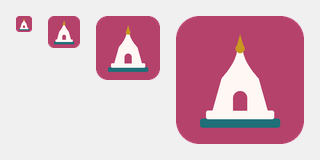
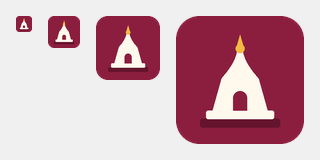
Stop tests tapping translated text, and make CI name its failures
The Linux-only failure is a tap that targets a Devanagari string. A text
finder's box is only as wide as the glyphs actually render, and the CI runner
has no Devanagari font installed, so those labels are near zero width and the
tap lands outside the widget. Locally the font exists and the same tap hits.
That is why the suite passed on Windows and failed on Linux, and why Phase 3
was green while Phase 4 - which added two such taps - was not.

Taps now target an icon or a key. The event editor's dropdown items are keyed
for the purpose, so a test can choose an option without depending on how it is
translated or on which fonts a machine happens to have.

CI echoes the failing test names as ::error:: annotations. The raw log needs
repository admin rights to read, so a red build that says only "1 test failed"
gave nothing to act on.

Also repaints the icon set and the web shell in the new palette, and fixes two
theme defects the new theme test caught: the seed generator produced the same
colour for primaryContainer and secondaryContainer, which made the "published"
and event-type chips identical, and the font fallback was being dropped by a
later copyWith. Status tones are now named tokens - a status has to read as a
status whatever the brand palette is.

Verified: flutter analyze clean, 328 tests pass.

diff --git a/frontend_flutter/test/app/theme_test.dart b/frontend_flutter/test/app/theme_test.dart
@@ -1,0 +1,91 @@
+import 'package:flutter/material.dart';
+import 'package:flutter_test/flutter_test.dart';
+import 'package:rkt_web/app/theme/app_colors.dart';
+import 'package:rkt_web/app/theme/app_spacing.dart';
+import 'package:rkt_web/app/theme/app_theme.dart';
+
+/// Pins the design system to the approved prototype.
+///
+/// These are the values the committee signed off on, so a change to any of them
+/// should be a deliberate act with this test updated in the same commit — not
+/// something that drifts in while somebody is adjusting a screen.
+void main() {
+  group('the Maroon & Gold palette', () {
+    test('uses the prototype\'s colours', () {
+      final scheme = AppColors.lightScheme();
+
+      expect(scheme.primary, const Color(0xFF8B1E3F));
+      expect(scheme.surface, const Color(0xFFFFF8EC));
+      expect(AppColors.gold, const Color(0xFFF4B942));
+      expect(AppColors.maroonFooter, const Color(0xFF2D0D17));
+    });
+
+    test('every status tone is a different colour', () {
+      // These used to be borrowed from the scheme's containers, and the seed
+      // generator produced the same colour for primaryContainer and
+      // secondaryContainer — "published" and the event type chip became
+      // indistinguishable the moment the palette changed.
+      final scheme = AppColors.lightScheme();
+      final tones = {
+        scheme.surfaceContainerHighest,
+        AppColors.positiveSurface,
+        AppColors.warningSurface,
+        AppColors.infoSurface,
+        scheme.errorContainer,
+      };
+
+      expect(tones, hasLength(5));
+    });
+
+    test('small accent text is bronze, not the bright gold', () {
+      // Bright gold on cream fails contrast at body sizes; it is a background
+      // colour here, never a text colour on the page ground.
+      expect(AppColors.lightScheme().secondary, AppColors.bronze);
+      expect(AppColors.lightScheme().secondary, isNot(AppColors.gold));
+    });
+  });
+
+  group('the built theme', () {
+    test('gives cards the prototype corner and a hairline border', () {
+      final theme = AppTheme.light();
+      final shape = theme.cardTheme.shape! as RoundedRectangleBorder;
+
+      expect(theme.cardTheme.elevation, 0);
+      expect(shape.borderRadius, BorderRadius.circular(AppRadius.lg));
+      expect(AppRadius.lg, 18, reason: "the prototype's --radius");
+      expect(shape.side.color, theme.colorScheme.outlineVariant);
+    });
+
+    test('keeps every primary action within the touch target', () {
+      // A village site read on cheap phones: 48dp is the floor, not a target.
+      final style = AppTheme.light().filledButtonTheme.style!;
+
+      expect(style.minimumSize?.resolve({})?.height, greaterThanOrEqualTo(48));
+    });
+
+    test('the page ground and the app bar are the same colour', () {
+      // The prototype's header is the page, separated by a hairline rather
+      // than by a coloured bar.
+      final theme = AppTheme.light();
+
+      expect(theme.appBarTheme.backgroundColor, theme.colorScheme.surface);
+      expect(theme.scaffoldBackgroundColor, theme.colorScheme.surface);
+    });
+
+    test('names the prototype font stack as a fallback', () {
+      // Named, not bundled: nothing has to download before the site is
+      // readable on a slow connection.
+      expect(
+        AppTheme.light().textTheme.bodyMedium?.fontFamilyFallback,
+        containsAll(<String>['Noto Sans Devanagari']),
+      );
+    });
+
+    test('the dark theme is built from the same tokens', () {
+      final dark = AppTheme.dark();
+
+      expect(dark.colorScheme.brightness, Brightness.dark);
+      expect(dark.cardTheme.elevation, 0);
+    });
+  });
+}

diff --git a/frontend_flutter/lib/features/admin/presentation/widgets/status_chip.dart b/frontend_flutter/lib/features/admin/presentation/widgets/status_chip.dart
@@ -1,5 +1,6 @@
 import 'package:flutter/material.dart';
 
+import '../../../../app/theme/app_colors.dart';
 import '../../../../app/theme/app_spacing.dart';
 
 /// How a chip should read at a glance.
@@ -7,8 +8,15 @@ enum StatusTone { neutral, positive, warning, info, danger }
 
 /// A small labelled chip used across the admin screens.
 ///
-/// Colours come from the scheme rather than literals, so the whole admin area
-/// followed the Rose & Peacock theme change without edits here.
+/// The neutral and danger tones come from the colour scheme, so the admin area
+/// followed two complete repaints — Marigold & Maroon to Rose & Peacock, and
+/// Rose & Peacock to Maroon & Gold — without an edit here.
+///
+/// The other three are fixed tokens rather than scheme roles. Borrowing
+/// `primaryContainer` and `secondaryContainer` made "published" and the event
+/// type chip identical the moment the palette changed, because the seed
+/// generator produced the same colour for both: a status has to stay legible
+/// as a status, not follow whatever the brand happens to be.
 class StatusChip extends StatelessWidget {
   const StatusChip({
     super.key,
@@ -29,14 +37,14 @@ class StatusChip extends StatelessWidget {
         scheme.onSurfaceVariant,
       ),
       StatusTone.positive => (
-        scheme.secondaryContainer,
-        scheme.onSecondaryContainer,
+        AppColors.positiveSurface,
+        AppColors.onPositiveSurface,
       ),
       StatusTone.warning => (
-        scheme.tertiaryContainer,
-        scheme.onTertiaryContainer,
+        AppColors.warningSurface,
+        AppColors.onWarningSurface,
       ),
-      StatusTone.info => (scheme.primaryContainer, scheme.onPrimaryContainer),
+      StatusTone.info => (AppColors.infoSurface, AppColors.onInfoSurface),
       StatusTone.danger => (scheme.errorContainer, scheme.onErrorContainer),
     };
 

diff --git a/frontend_flutter/lib/features/events/presentation/admin_event_editor_screen.dart b/frontend_flutter/lib/features/events/presentation/admin_event_editor_screen.dart
@@ -375,6 +375,9 @@ class _EventFormState extends ConsumerState<_EventForm> {
                 items: [
                   for (final type in EventTypes.all)
                     DropdownMenuItem(
+                      // Keyed so a test can choose an option without tapping
+                      // its translated label.
+                      key: Key('event-type-$type'),
                       value: type,
                       child: Text(EventFormatting.typeLabel(type, l10n)),
                     ),
@@ -448,6 +451,7 @@ class _EventFormState extends ConsumerState<_EventForm> {
                 items: [
                   for (final recurrence in Recurrences.all)
                     DropdownMenuItem(
+                      key: Key('event-recurrence-$recurrence'),
                       value: recurrence,
                       child: Text(
                         EventFormatting.recurrenceLabel(recurrence, l10n),
@@ -523,6 +527,7 @@ class _EventFormState extends ConsumerState<_EventForm> {
                 items: [
                   for (final status in EventStatuses.all)
                     DropdownMenuItem(
+                      key: Key('event-status-$status'),
                       value: status,
                       child: Text(EventFormatting.statusLabel(status, l10n)),
                     ),

diff --git a/frontend_flutter/test/features/events/event_screens_test.dart b/frontend_flutter/test/features/events/event_screens_test.dart
@@ -78,7 +78,10 @@ void main() {
       await pumpEvents(tester, const EventsScreen(), events);
       expect(find.text('जन्माष्टमी'), findsOneWidget);
 
-      await tester.tap(find.text('पूर्व कार्यक्रम'));
+      // Tapped by icon, not by its translated label: a text finder's box is
+      // only as wide as the glyphs actually render, and a machine with no
+      // Devanagari font gives it almost no width to hit.
+      await tester.tap(find.byIcon(Icons.history));
       await tester.pumpAndSettle();
 
       expect(events.lastQuery?.view, EventView.past);
@@ -401,7 +404,10 @@ void main() {
 
       await tester.tap(find.byKey(const Key('event-recurrence')));
       await tester.pumpAndSettle();
-      await tester.tap(find.text('साप्ताहिक').last);
+      // By key rather than by translated label, for the same reason.
+      await tester.tap(
+        find.byKey(const Key('event-recurrence-${Recurrences.weekly}')).last,
+      );
       await tester.pumpAndSettle();
 
       expect(find.byKey(const Key('event-day-1')), findsOneWidget);

diff --git a/frontend_flutter/web/index.html b/frontend_flutter/web/index.html
@@ -15,7 +15,7 @@
   <meta name="viewport" content="width=device-width, initial-scale=1.0, viewport-fit=cover">
   <meta content="IE=Edge" http-equiv="X-UA-Compatible">
   <meta name="description" content="राधा कृष्ण ठाकुरबाड़ी, अमरपुर पंखोरिया — गाँव का मंदिर। Radha Krishna Thakurbari, Amarpur Pankhoriya, Bhagalpur, Bihar.">
-  <meta name="theme-color" content="#B5426B">
+  <meta name="theme-color" content="#8B1E3F">
 
   <meta property="og:type" content="website">
   <meta property="og:title" content="राधा कृष्ण ठाकुरबाड़ी | Radha Krishna Thakurbari">
@@ -38,7 +38,7 @@
   <style>
     /* Shown only until the Flutter bundle boots; keeps a slow village
        connection from staring at a blank white page. */
-    html, body { margin: 0; padding: 0; height: 100%; background: #FFF7F4; }
+    html, body { margin: 0; padding: 0; height: 100%; background: #FFF8EC; }
     #boot {
       position: fixed; inset: 0;
       display: flex; flex-direction: column;

diff --git a/frontend_flutter/lib/app/theme/app_colors.dart b/frontend_flutter/lib/app/theme/app_colors.dart
@@ -55,6 +55,20 @@ class AppColors {
   /// Footer body text on the dark ground.
   static const Color onFooter = Color(0xFFCDBCC1);
 
+  // --- Status tones -------------------------------------------------------
+  // A status is not a Material role. "Published" has to read as positive to a
+  // person whatever the brand palette is, so these are named and fixed here
+  // rather than borrowed from primaryContainer / secondaryContainer — which
+  // the seed generator is free to make identical to each other, and did.
+  static const Color positiveSurface = Color(0xFFE3F0E1);
+  static const Color onPositiveSurface = Color(0xFF1B5E20);
+
+  static const Color warningSurface = Color(0xFFFCEBC8);
+  static const Color onWarningSurface = Color(0xFF6B4300);
+
+  static const Color infoSurface = Color(0xFFF6DDE5);
+  static const Color onInfoSurface = Color(0xFF5A0F26);
+
   static const Color success = Color(0xFF2E7D32);
   static const Color warning = Color(0xFFB26A00);
   static const Color danger = Color(0xFFB3261E);

diff --git a/frontend_flutter/lib/app/theme/app_typography.dart b/frontend_flutter/lib/app/theme/app_typography.dart
@@ -28,8 +28,9 @@ class AppTypography {
   static TextTheme textTheme(ColorScheme scheme) {
     final base = Typography.material2021().black;
 
+    // The fallback is applied *after* copyWith, not before: copyWith replaces
+    // whole TextStyles taken from `base`, which would drop an earlier apply().
     return base
-        .apply(fontFamilyFallback: fontFallback)
         .copyWith(
           displaySmall: base.displaySmall?.copyWith(
             height: headingHeight,
@@ -51,6 +52,10 @@ class AppTypography {
           bodyMedium: base.bodyMedium?.copyWith(height: bodyHeight),
           bodySmall: base.bodySmall?.copyWith(height: bodyHeight),
         )
-        .apply(bodyColor: scheme.onSurface, displayColor: scheme.onSurface);
+        .apply(
+          bodyColor: scheme.onSurface,
+          displayColor: scheme.onSurface,
+          fontFamilyFallback: fontFallback,
+        );
   }
 }

diff --git a/frontend_flutter/test/features/temple/committee_consent_test.dart b/frontend_flutter/test/features/temple/committee_consent_test.dart
@@ -282,7 +282,14 @@ void main() {
 
     await tester.tap(find.byKey(const Key('member-delete')));
     await tester.pumpAndSettle();
-    await tester.tap(find.text('रद्द करें').last);
+    // The dialog's cancel button, found by type rather than by its translated
+    // label: a text finder is only as wide as the glyphs that render.
+    await tester.tap(
+      find.descendant(
+        of: find.byKey(const Key('member-delete-dialog')),
+        matching: find.byType(TextButton),
+      ),
+    );
     await tester.pumpAndSettle();
 
     expect(temple.deleteMemberCalls, 0);

diff --git a/frontend_flutter/lib/features/content/presentation/widgets/home_hero.dart b/frontend_flutter/lib/features/content/presentation/widgets/home_hero.dart
@@ -169,6 +169,7 @@ class _HeroEmblem extends StatelessWidget {
       height: isCompact ? 180 : 300,
       decoration: BoxDecoration(
         borderRadius: BorderRadius.circular(AppRadius.xl),
+        boxShadow: AppColors.panelShadow,
         gradient: const LinearGradient(
           begin: Alignment.topLeft,
           end: Alignment.bottomRight,

diff --git a/frontend_flutter/tool/generate_icons.py b/frontend_flutter/tool/generate_icons.py
@@ -1,14 +1,14 @@
 """Generate the favicon and PWA icons for Radha Krishna Thakurbari.
 
 The mark is a temple shikhara (spire) with a kalash finial, drawn in the
-"Rose & Peacock" palette from lib/app/theme/app_colors.dart:
+"Maroon & Gold" palette from lib/app/theme/app_colors.dart:
 
-    rose    #B5426B   background (Radha)
-    ivory   #FFF7F4   the temple silhouette
-    gold    #C9971F   the kalash finial
-    peacock #1F6F78   the plinth band (Krishna)
+    maroon  #8B1E3F   background
+    cream   #FFF8EC   the temple silhouette
+    gold    #F4B942   the kalash finial
+    deep    #65142D   the plinth band
 
-A filled rose tile with an ivory glyph stays legible at 16px in a browser tab,
+A filled maroon tile with a cream glyph stays legible at 16px in a browser tab,
 which a thin outline on a light background would not.
 
 Run from frontend_flutter/:   python tool/generate_icons.py
@@ -23,10 +23,10 @@ import os
 
 from PIL import Image, ImageDraw
 
-ROSE = (181, 66, 107, 255)
-IVORY = (255, 247, 244, 255)
-GOLD = (201, 151, 31, 255)
-PEACOCK = (31, 111, 120, 255)
+MAROON = (139, 30, 63, 255)
+IVORY = (255, 248, 236, 255)
+GOLD = (244, 185, 66, 255)
+MAROON_DEEP = (101, 20, 45, 255)
 TRANSPARENT = (0, 0, 0, 0)
 
 SS = 4  # supersampling factor
@@ -49,13 +49,13 @@ def draw_mark(size: int, *, bleed: bool, corner_ratio: float = 0.18) -> Image.Im
 
     # --- background ---------------------------------------------------------
     if bleed:
-        d.rectangle([0, 0, s, s], fill=ROSE)
+        d.rectangle([0, 0, s, s], fill=MAROON)
         # Maskable icons must keep content inside the middle 80%, so the glyph
         # is drawn smaller and centred.
         scale, offset_y = 0.78, px(6)
     else:
         r = px(BASE * corner_ratio)
-        d.rounded_rectangle([0, 0, s - 1, s - 1], radius=r, fill=ROSE)
+        d.rounded_rectangle([0, 0, s - 1, s - 1], radius=r, fill=MAROON)
         scale, offset_y = 1.0, 0.0
 
     cx = s / 2
@@ -66,9 +66,9 @@ def draw_mark(size: int, *, bleed: bool, corner_ratio: float = 0.18) -> Image.Im
     def Y(v: float) -> float:
         return px(v) * scale + (s * (1 - scale) / 2) + offset_y
 
-    # --- plinth (peacock band + ivory steps) --------------------------------
+    # --- plinth (deep maroon band + cream steps) --------------------------------
     d.rounded_rectangle(
-        [X(96), Y(410), X(416), Y(446)], radius=px(10) * scale, fill=PEACOCK
+        [X(96), Y(410), X(416), Y(446)], radius=px(10) * scale, fill=MAROON_DEEP
     )
     d.rounded_rectangle(
         [X(120), Y(378), X(392), Y(412)], radius=px(8) * scale, fill=IVORY
@@ -102,9 +102,9 @@ def draw_mark(size: int, *, bleed: bool, corner_ratio: float = 0.18) -> Image.Im
 
     # --- doorway ------------------------------------------------------------
     d.rounded_rectangle(
-        [X(228), Y(300), X(284), Y(378)], radius=px(28) * scale, fill=ROSE
+        [X(228), Y(300), X(284), Y(378)], radius=px(28) * scale, fill=MAROON
     )
-    d.rectangle([X(228), Y(350), X(284), Y(378)], fill=ROSE)
+    d.rectangle([X(228), Y(350), X(284), Y(378)], fill=MAROON)
 
     return img.resize((size, size), Image.LANCZOS)
 
